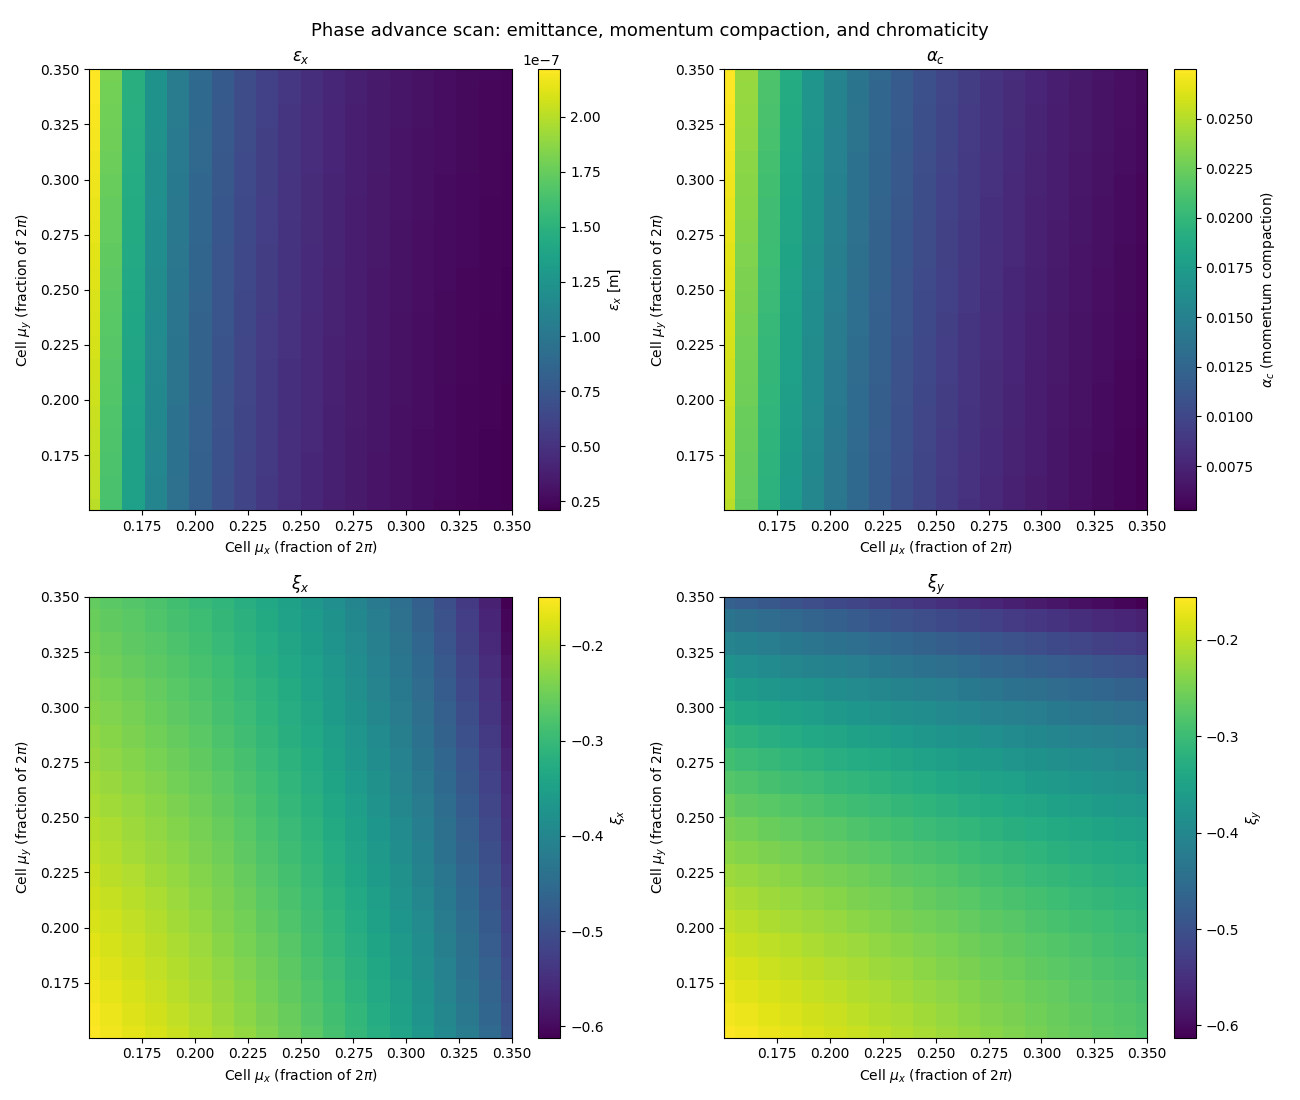
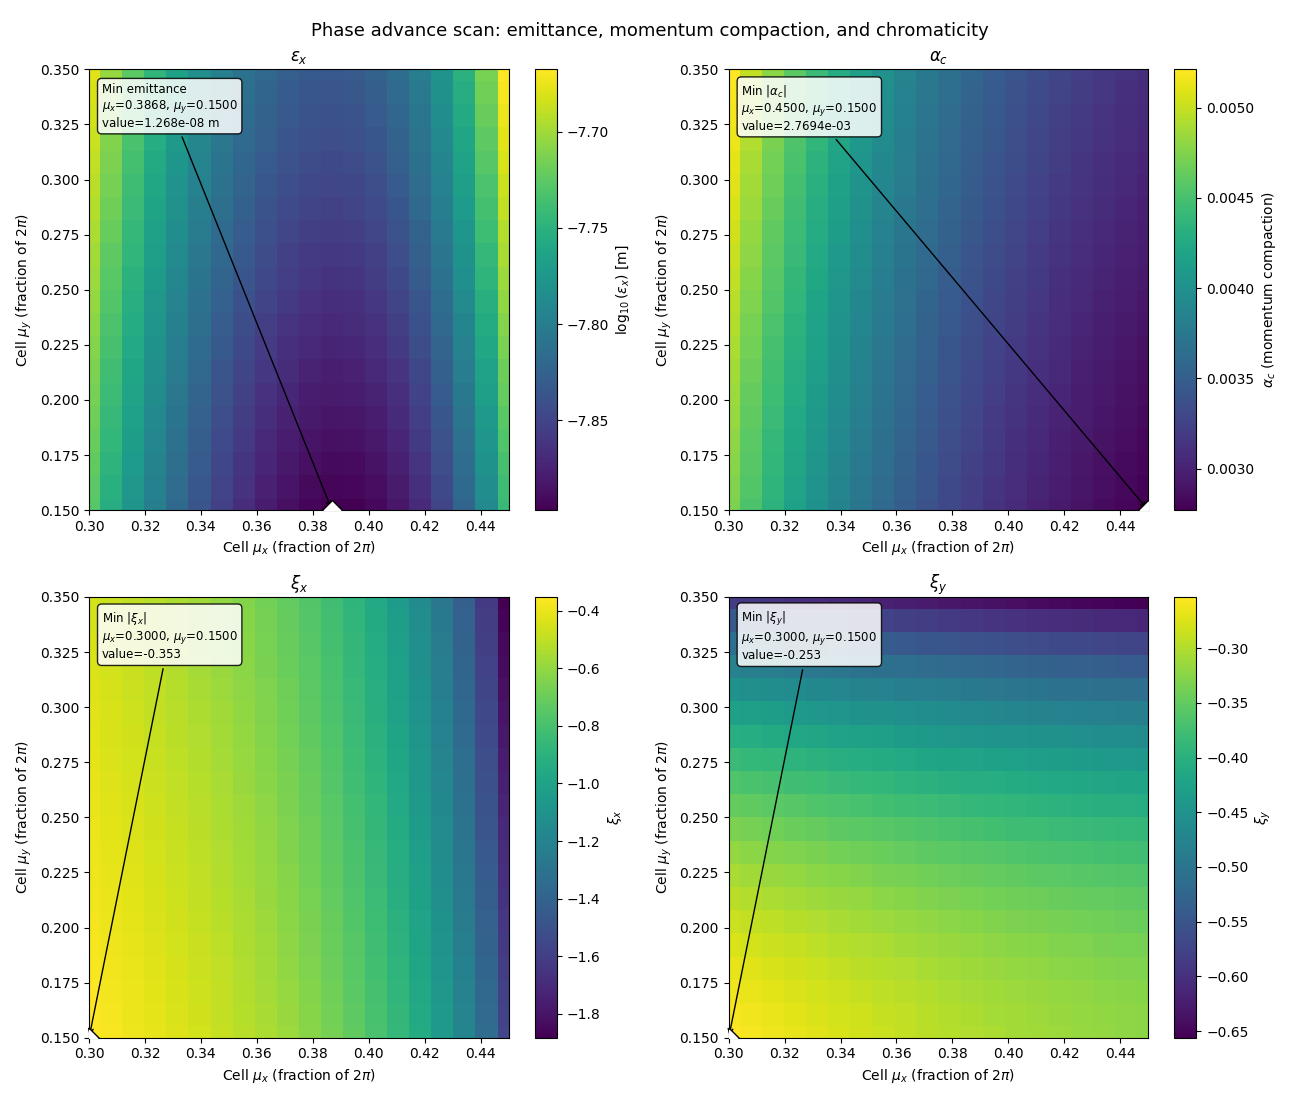
wp optimise

diff --git a/wp_optimisation.py b/wp_optimisation.py
@@ -167,7 +167,7 @@ def _annotate_best_point(ax, best, label='Best', value_fmt='{:.4e}',
 
 
 def plot_mux_muy_4panel(scan_result, cmap='viridis', log_emittance=False,
-                        show_best=False, objectives=None):
+                        show_best=True, objectives=None):
     """
     Four-panel (mu_x, mu_y) scan plot:
 
@@ -175,16 +175,6 @@ def plot_mux_muy_4panel(scan_result, cmap='viridis', log_emittance=False,
         top-right    = momentum compaction factor (alpha_c)
         bottom-left  = horizontal chromaticity (dqx)
         bottom-right = vertical chromaticity (dqy)
-
-    Axes are cell phase advance only (mu_x, mu_y) -- no ring working
-    point or secondary tune axes.
-
-    show_best: if True, each panel gets its own textbox marking the grid
-    point that's "best" FOR THAT SPECIFIC METRIC ALONE -- these four
-    points will generally NOT coincide, which is the point: the plot
-    exists to show the tradeoff between them, not to pick a single winner.
-    objectives: optional dict overriding the default per-panel objective.
-    Defaults: emit_x='min', alpha_c='abs_min', dqx='abs_min', dqy='abs_min'.
     """
     mux_grid = scan_result['mux_grid']
     muy_grid = scan_result['muy_grid']
@@ -236,14 +226,16 @@ def plot_mux_muy_4panel(scan_result, cmap='viridis', log_emittance=False,
     return fig, axes
 
 
-pdr = xt.Environment.from_json('/home/mwatson/Documents/laughing-octo-bassoon/JSON Files/D3/C0/pdr_perfect_90.json')
+
+
+pdr = xt.Environment.from_json('/home/mwatson/Documents/laughing-octo-bassoon/JSON Files/D1/C0/pdr_perfect_90_DSchange.json')
 ring = pdr.lines['ring']
 cell_arc = pdr.lines['cell_arc']
-tw = cell_arc.twiss(method='4d')
 
 scan = scan_mux_muy_emittance(
-    cell_arc, mux_range=(tw.mux[-1]-0.1, tw.mux[-1]+0.1), muy_range=(tw.muy[-1]-0.1, tw.muy[-1]+0.1),
+    cell_arc, mux_range=(0.30, 0.45), muy_range=(0.15, 0.35),
     n_mux=20, n_muy=20,
 )
 fig, axes = plot_mux_muy_4panel(scan)
 fig.savefig('wp_plots.png')
+
